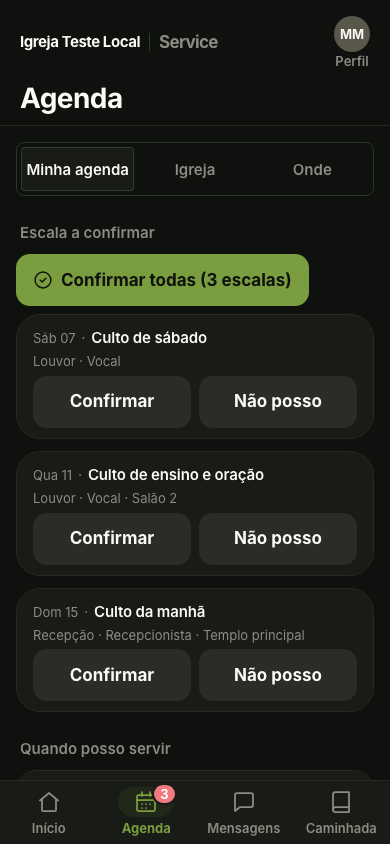
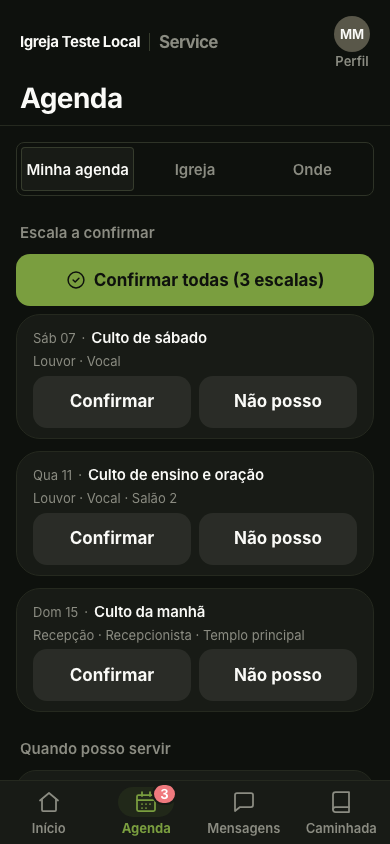
M1: Confirmar todas ocupa a largura dos cartões
O botão terminava em 308 px enquanto os cartões iam até 374 (390x844), e ficava
encostado à esquerda. Usa a prop largo do Botao (.m6-btn.full), sem CSS novo.

Changed region(s): [[0.1538, 0.2773, 0.9846, 0.3697], [0.0923, 0.3081, 0.1231, 0.3389]]

diff --git a/app/service/membro/Agenda.tsx b/app/service/membro/Agenda.tsx
@@ -91,7 +91,7 @@ function ConfirmarTodas({ pend, evById, onResponderEscala }: {
   };
   return (
     <div className="m6-confirmar-todas">
-      <Botao tamanho="toque" variante="principal" desativado={salvando} onClick={confirmarTodas}>
+      <Botao tamanho="toque" variante="principal" largo desativado={salvando} onClick={confirmarTodas}>
         <Icon name="ok" size={20} />
         {salvando ? "Confirmando..." : `Confirmar todas (${plural(pend.length, "escala")})`}
       </Botao>

diff --git a/docs/service-v7/historias/M1-agenda-confirmar-todas.md b/docs/service-v7/historias/M1-agenda-confirmar-todas.md
@@ -79,3 +79,4 @@ As 3 ações a mais são o "Não posso" de cada cartão, que antes ficava fora d
 ## Notas
 Fechada em 2026-11-05: `ConfirmarTodas` (Agenda.tsx) confirma na tela e grava em paralelo, com Desfazer e aviso parcial; `EscalaCard compacto` (Inicio.tsx); densidade no manifesto de Escalas.
 Depende de D1.
+Ajuste em 2026-11-06: o "Confirmar todas" ganhou `largo` e ocupa a mesma largura dos cartões (borda 16 a 374 nos dois em 390x844); antes terminava em 308 e ficava encostado à esquerda.
